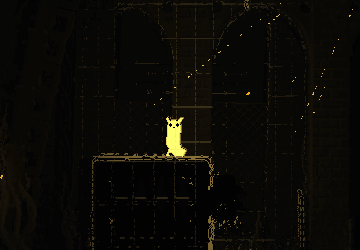
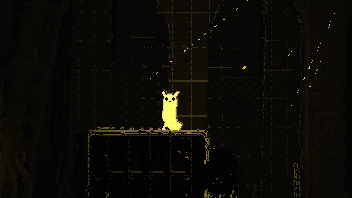
add config menu

diff --git a/src/Plugin.cs b/src/Plugin.cs
@@ -1,19 +1,24 @@
 using BepInEx;
 using System.Security.Permissions;
+using UnityEngine;
 
 #pragma warning disable CS0618 // Do not remove the following line.
 [assembly: SecurityPermission(SecurityAction.RequestMinimum, SkipVerification = true)]
 
 namespace LightGiver;
 
-[BepInPlugin("casheww.lightgiver", "LightGiver", "0.2.0")]
-sealed class Plugin : BaseUnityPlugin {
+[BepInPlugin("casheww.lightgiver", "LightGiver", "0.3.0")]
+public sealed class Plugin : BaseUnityPlugin {
     public void OnEnable() {
         On.RainWorld.OnModsInit += (self, orig) => {
             self(orig);
 
             if (initialised) return;
+
+            MachineConnector.SetRegisteredOI(Info.Metadata.GUID, new LightGiverConfig(this));
             On.Player.Update += Player_Update;
+
+
             initialised = true;
         };
     }
@@ -21,12 +26,23 @@ sealed class Plugin : BaseUnityPlugin {
     private void Player_Update(On.Player.orig_Update orig, Player self, bool eu) {
         orig(self, eu);
 
-        if (self.objectInStomach?.type == AbstractPhysicalObject.AbstractObjectType.Lantern &&
+        if ((self.objectInStomach?.type == AbstractPhysicalObject.AbstractObjectType.Lantern || !LightGiverConfig.LanternRequired.Value) &&
             HologramLight.Needed(self) > 0.4375f &&
             self.room != null && !self.room.abstractRoom.shelter &&
             self.room.game.IsStorySession) {
                 HologramLight.TryCreate(self);
         }
+    }
+
+    private void HologramLight_DrawSprites(On.HologramLight.orig_DrawSprites orig, HologramLight self,
+            RoomCamera.SpriteLeaser sLeaser, RoomCamera rCam, float timeStacker, Vector2 camPos) {
+        orig(self, sLeaser, rCam, timeStacker, camPos);
+
+        self.lightsource.HardSetRad(LightGiverConfig.LightRadiusFactor.Value);
+
+        self.lightsource.color = LightGiverConfig.LightColor.Value;
+        Vector3 v3 = RWCustom.Custom.RGB2HSL(LightGiverConfig.LightColor.Value);
+        
     }
 
     public BepInEx.Logging.ManualLogSource PubLog { get; private set; }

diff --git a/src/LightGiverConfig.cs b/src/LightGiverConfig.cs
@@ -1,0 +1,41 @@
+using Menu.Remix.MixedUI;
+using UnityEngine;
+
+namespace LightGiver;
+
+public sealed class LightGiverConfig : OptionInterface {
+    public LightGiverConfig(Plugin plugin) {
+        this.plugin = plugin;
+        LanternRequired = config.Bind<bool>("lanternRequired", true);
+        LightRadiusFactor = config.Bind<float>("lightRadius", 1f);
+        LightColor = config.Bind<Color>("color", new Color(0.87f, 0.72f, 0.35f));
+    }
+
+    public override void Initialize() {
+        base.Initialize();
+
+        Tabs = new OpTab[1] {new OpTab(this)};
+        OpTab t = Tabs[0];
+
+        // metadata
+        t.AddItems(
+            new OpLabel(new Vector2(150f, 550f), new Vector2(300f, 30f), plugin.Info.Metadata.Name, bigText:true),
+            new OpLabel(new Vector2(150f, 520f), new Vector2(300f, 30f), plugin.Info.Metadata.Version.ToString())
+        );
+
+        t.AddItems(
+            new OpCheckBox(LanternRequired, new Vector2(50f, 470f)),
+            new OpLabel(75f, 475f, "Lantern required for guide light encouragement?"),
+            new OpFloatSlider(LightRadiusFactor, new Vector2(50f, 440f), 100, 5),
+            new OpLabel(100f, 440f, "Guide light radius multiplier"),
+            new OpColorPicker(LightColor, new Vector2(50f, 260f))
+        );
+    }
+
+
+    Plugin plugin;
+
+    public static Configurable<bool> LanternRequired { get; private set; }
+    public static Configurable<float> LightRadiusFactor { get; private set; }
+    public static Configurable<Color> LightColor { get; private set; }
+}
